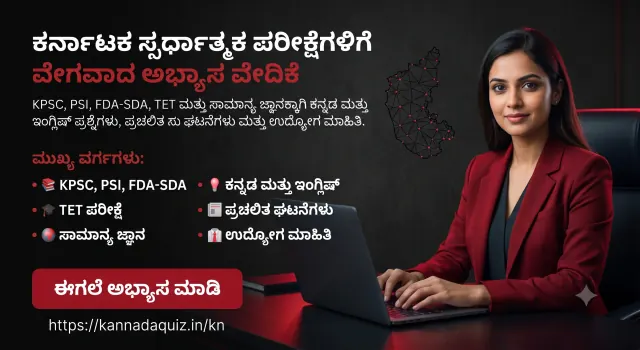
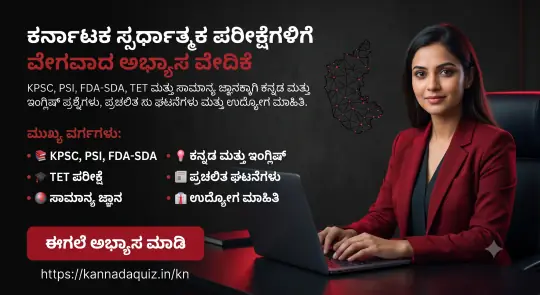
perf: defer AdSense/analytics until interaction and compress hero images to 18KB mobile / 40KB desktop

diff --git a/src/app/layout.tsx b/src/app/layout.tsx
@@ -75,32 +75,40 @@ export default function RootLayout({
         <link rel="preload" as="image" href="/images/hero-ka.webp" type="image/webp" media="(min-width: 641px)" fetchPriority="high" />
       </head>
       <body className="min-h-full flex flex-col">
-        <Script 
-          id="adsense-script"
-          async 
-          src="https://pagead2.googlesyndication.com/pagead/js/adsbygoogle.js?client=ca-pub-1813097110898475" 
-          crossOrigin="anonymous"
-          strategy="lazyOnload"
-        />
-        {children}
-        {gaId && (
-          <>
-            <Script
-              src={`https://www.googletagmanager.com/gtag/js?id=${gaId}`}
-              strategy="lazyOnload"
-            />
-            <Script id="google-analytics" strategy="lazyOnload">
-              {`
+        <Script id="deferred-third-party-loader" strategy="lazyOnload">
+          {`
+            (function() {
+              var loaded = false;
+              function loadDeferred() {
+                if (loaded) return;
+                loaded = true;
+                
+                var adScript = document.createElement('script');
+                adScript.src = "https://pagead2.googlesyndication.com/pagead/js/adsbygoogle.js?client=ca-pub-1813097110898475";
+                adScript.crossOrigin = "anonymous";
+                adScript.async = true;
+                document.head.appendChild(adScript);
+
+                var gaScript = document.createElement('script');
+                gaScript.src = "https://www.googletagmanager.com/gtag/js?id=${gaId}";
+                gaScript.async = true;
+                document.head.appendChild(gaScript);
+
                 window.dataLayer = window.dataLayer || [];
                 function gtag(){dataLayer.push(arguments);}
+                window.gtag = gtag;
                 gtag('js', new Date());
-                gtag('config', '${gaId}', {
-                  page_path: window.location.pathname,
-                });
-              `}
-            </Script>
-          </>
-        )}
+                gtag('config', '${gaId}', { page_path: window.location.pathname });
+              }
+
+              var events = ['scroll', 'touchstart', 'mousemove', 'click', 'keydown'];
+              events.forEach(function(e) {
+                window.addEventListener(e, loadDeferred, { once: true, passive: true });
+              });
+              setTimeout(loadDeferred, 3500);
+            })();
+          `}
+        </Script>
       </body>
     </html>
   );
